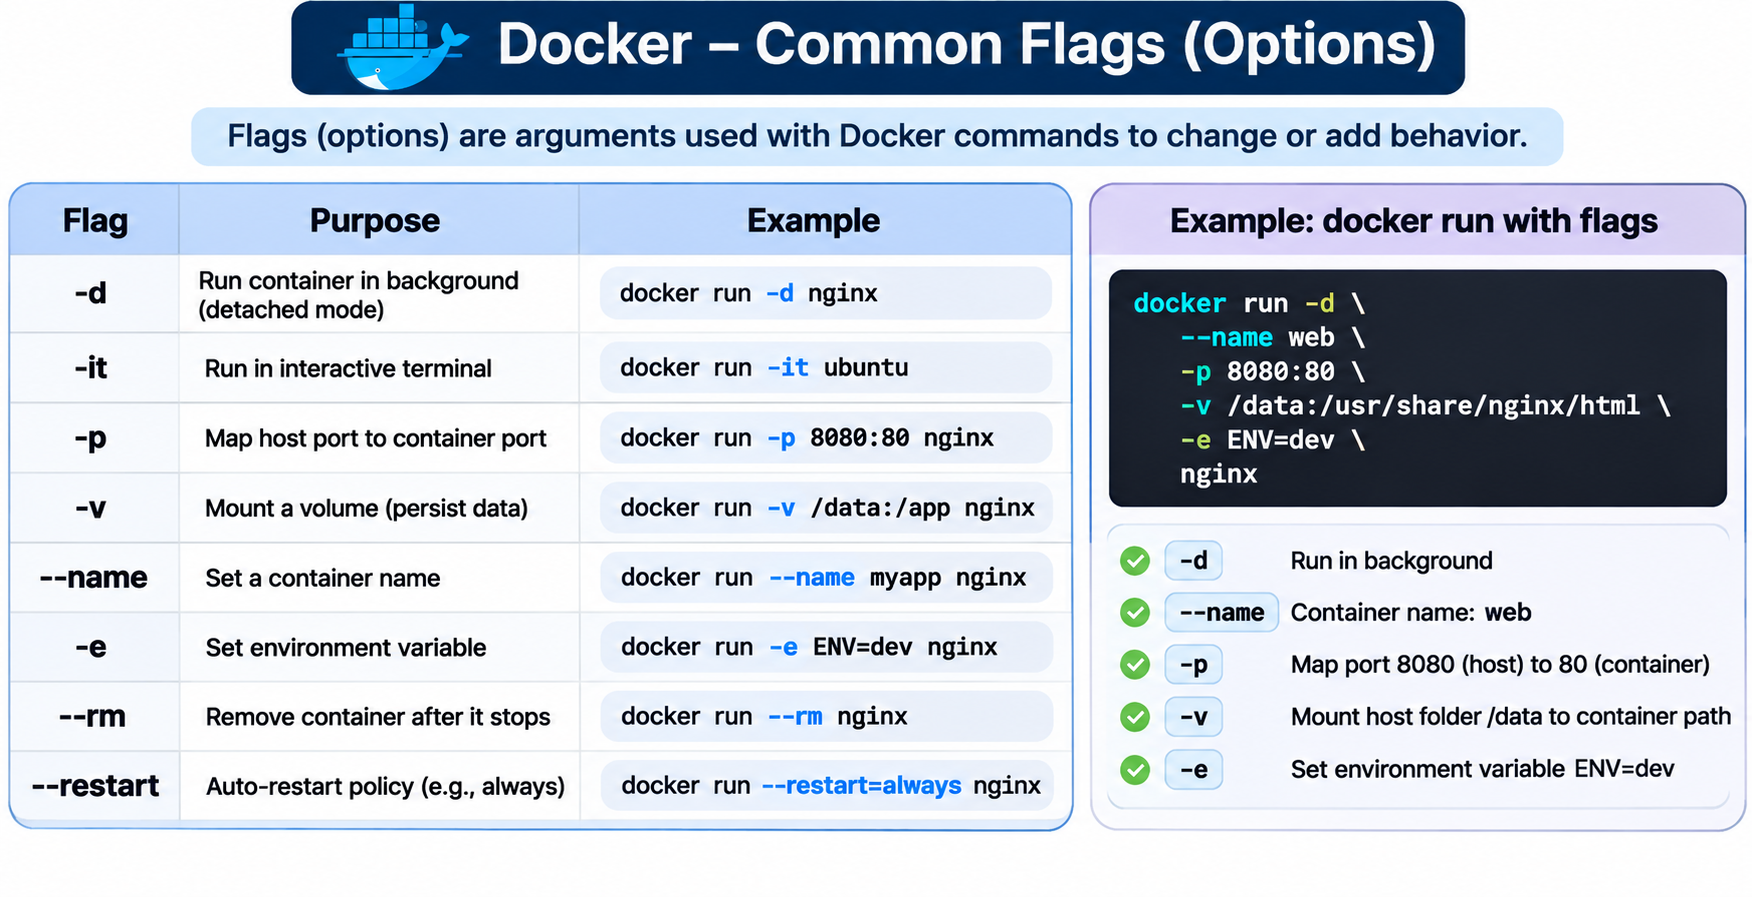
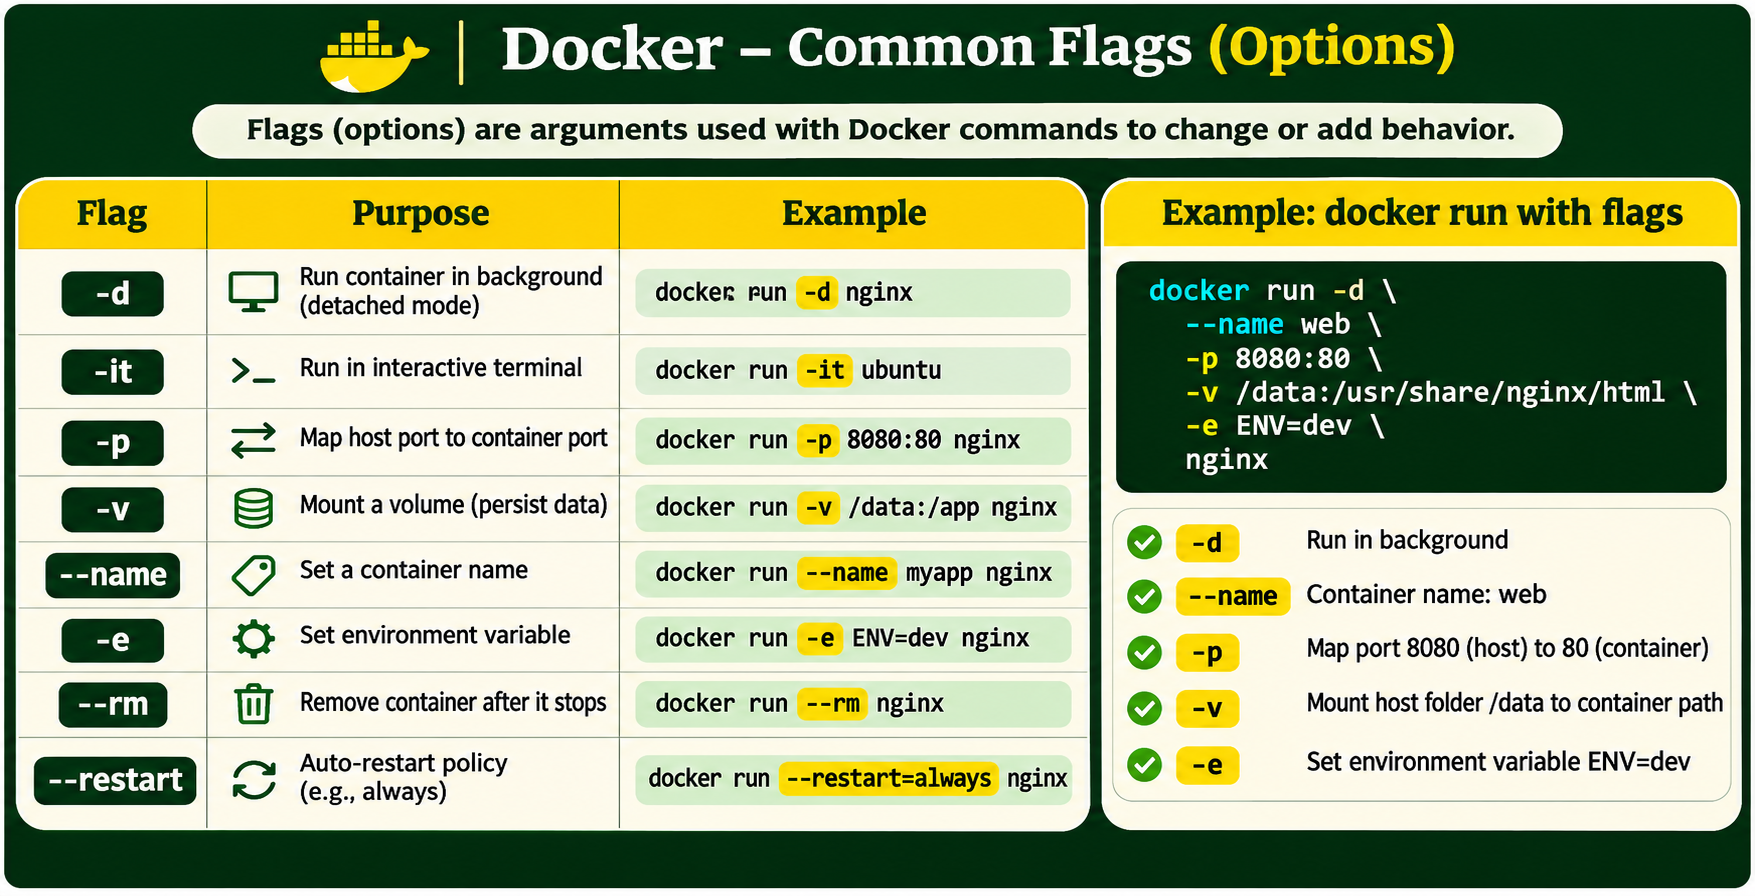
docker vs k8s

diff --git a/Day-6/README.md b/Day-6/README.md
@@ -1,0 +1,35 @@
+# Docker vs Kubernetes
+
+## Challenges with Docker
+
+![Docker Challenges](../images/dockerChallenges.png "Docker Challenges")
+
+- **Auto-Scaling:** Docker lacks native support for automatic scaling of containers based on resource utilization or demand, requiring external orchestration tools like Kubernetes to manage dynamic scaling effectively.
+
+- **Load Balancing:** Docker does not offer built-in, sophisticated load-balancing mechanisms across multiple containers or hosts, making it reliant on third-party tools or manual configurations.
+
+- **Self-Healing:** Docker does not have inherent self-healing capabilities to restart failed containers or maintain application stability automatically, unlike Kubernetes.
+
+- **Rolling Updates/Rollbacks:** Docker alone cannot perform seamless rolling updates or rollbacks for applications, which is essential for maintaining zero downtime during updates or reverting changes safely.
+
+## Hello Kubernetes
+
+![Why Kubernetes](../images/whyKubernetes.png "Why Kubernetes")
+
+### Kubernetes vs Docker Swarm
+
+|**Features**                   | **Kubernetes** | **Docker Swarm** |
+|:-----------------------------:|:----------:|:-----------------:|
+| **Installation & Cluster Config** | Setup is very complicated, but once installed cluster is robust. | Installation is very simple, but the cluster is not robust.|
+| **GUI** | GUI is the Kubernetes Dashboard. | There is no GUI.|
+| **Scalability** | Highly scalable and scales fast. | Highly scalable and scales 5x faster than Kubernetes. |
+| **Auto-scaling** | Kubernetes can do auto-scaling. | Docker swarm cannot do auto-scaling. |
+| **Load Balancing** | Manual intervention needed for load balancing traffic between different containers and pods.	 | Docker swarm does auto load balancing of traffic between containers in the cluster. |
+| **Rolling Updates & Rollbacks** | Can deploy rolling updates and does automatic rollbacks. | Can deploy rolling updates, but not automatic rollback. |
+| **Logging & Monitoring** | In-built tools for logging and monitoring.	| 3rd party tools like ELK stack should be used for logging and monitoring.|
+
+### Contributors
+[![Yogendra Pratap Singh][yogendra_avatar]][yogendra_homepage]<br/>[Yogendra Pratap Singh][yogendra_homepage] 
+
+  [yogendra_homepage]: https://www.linkedin.com/in/yogendra-pratap-singh-41630716b/
+  [yogendra_avatar]: https://img.cloudposse.com/75x75/https://github.com/PratapSingh13.png

diff --git a/Day-4/README.md b/Day-4/README.md
@@ -1,0 +1,10 @@
+# CMD vs ENTRYPOINT vs RUN
+
+![CMD vs ENTRYPOINT vs RUN](../images/cmd-entrypoint-run.png "CMD vs ENTRYPOINT vs RUN")
+
+
+### Contributors
+[![Yogendra Pratap Singh][yogendra_avatar]][yogendra_homepage]<br/>[Yogendra Pratap Singh][yogendra_homepage] 
+
+  [yogendra_homepage]: https://www.linkedin.com/in/yogendra-pratap-singh-41630716b/
+  [yogendra_avatar]: https://img.cloudposse.com/75x75/https://github.com/PratapSingh13.png

diff --git a/Day-7/README.md b/Day-7/README.md
@@ -1,0 +1,3 @@
+# What is POD?
+
+![What is POD](../images/pod.png "What is POD")
